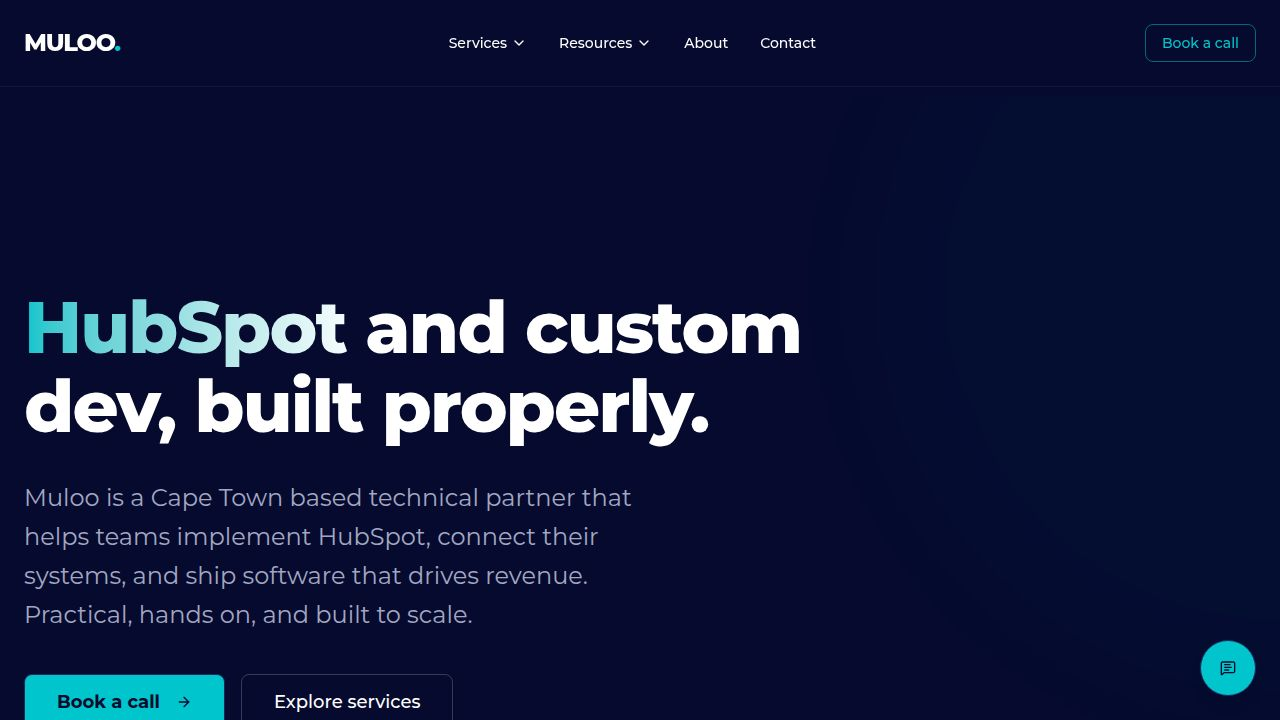
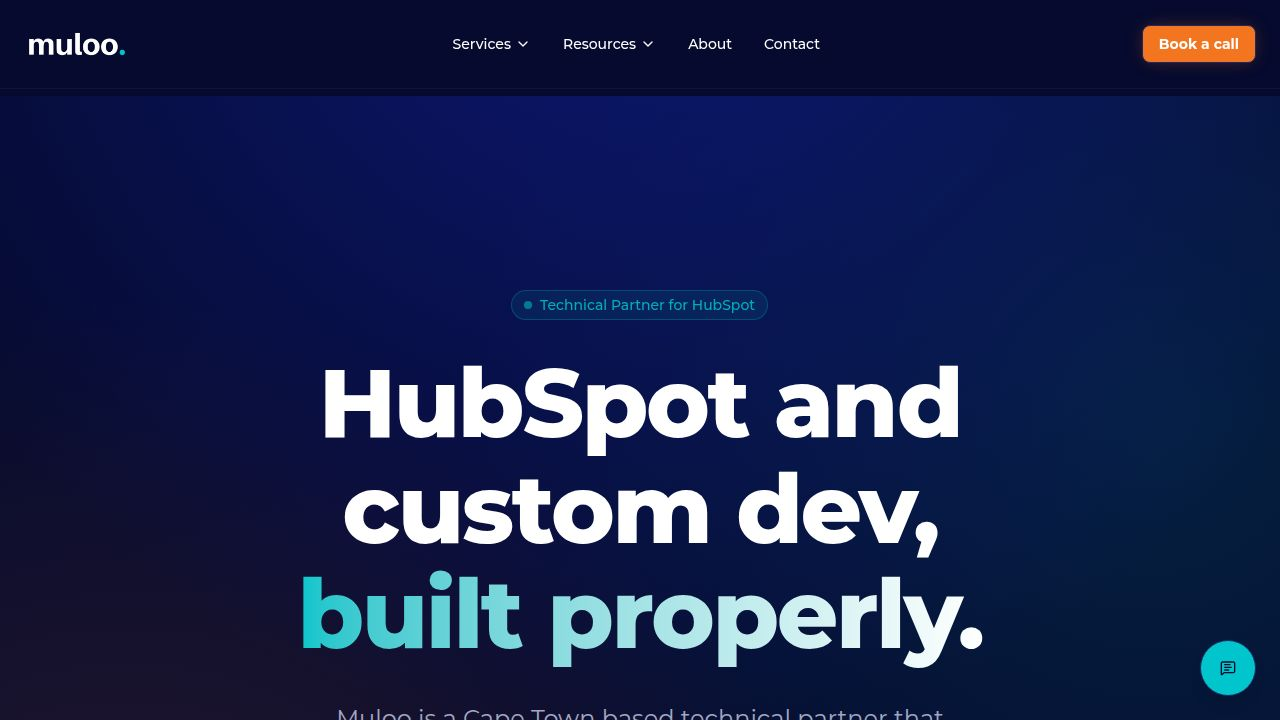
Update website with prominent orange branding and new imagery
Integrate Muloo Orange (#F47621) for emphasis, update gradient styles with vibrant orange hues, and incorporate new images on the Home and About pages. The "Book a call" button is now orange.

Replit-Commit-Author: Agent
Replit-Commit-Session-Id: 48c779ea-a9d9-4860-8ead-1b1bf76c8928
Replit-Commit-Checkpoint-Type: full_checkpoint
Replit-Commit-Event-Id: 6f55e679-4658-460c-8348-17905d78875e
Replit-Commit-Screenshot-Url: https://storage.googleapis.com/screenshot-production-us-central1/16b46b86-c891-4273-b756-b6b85d5cef0c/48c779ea-a9d9-4860-8ead-1b1bf76c8928/hsj3yDz
Replit-Helium-Checkpoint-Created: true

diff --git a/client/src/pages/home.tsx b/client/src/pages/home.tsx
@@ -3,15 +3,18 @@ import { FeatureGrid } from "@/components/sections/feature-grid";
 import { Section } from "@/components/ui/section";
 import { homeContent } from "@/lib/content";
 import { Button } from "@/components/ui/button";
-import { ArrowRight, ArrowUpRight, Code2, Database, LayoutTemplate, Share2, ShieldCheck, Zap } from "lucide-react";
+import { ArrowRight, Code2, Database, LayoutTemplate, Share2, ShieldCheck } from "lucide-react";
 import { Link } from "wouter";
 import { Badge } from "@/components/ui/badge";
-import { Card, CardContent, CardHeader, CardTitle } from "@/components/ui/card";
+import womanInCafe from "@assets/happy-african-american-young-woman-afro-hair-modern-cafe-small_1771487221441.jpg";
+import teamWork from "@assets/happiness-at-workplace-GettyImages-1129332568_1771487221441.jpg";
+import hubspotBadge from "@assets/gold-badge-color_1771487221441.png";
+import googleBadge from "@assets/google-partner-logo_1771487221441.png";
 
 export function Home() {
   return (
     <div className="flex flex-col">
-      {/* 1. Hero Section with Dark SaaS Style Gradient */}
+      {/* 1. Hero Section with Dark SaaS Style Gradient and Orange Glows */}
       <div className="relative pt-32 pb-20 md:pt-48 md:pb-32 overflow-hidden bg-hero-gradient">
         <div className="container mx-auto px-6 relative z-10 text-center">
           <div className="inline-flex items-center rounded-full border border-brand-teal/30 bg-brand-teal/10 px-3 py-1 text-sm font-medium text-brand-teal mb-8 animate-in fade-in slide-in-from-bottom-4 duration-1000">
@@ -30,7 +33,7 @@ export function Home() {
           
           <div className="flex flex-col sm:flex-row gap-4 justify-center items-center mb-12">
             <Link href="/contact">
-              <Button size="lg" className="bg-brand-teal text-brand-navy hover:bg-brand-teal/90 font-bold px-8 h-14 text-lg w-full sm:w-auto">
+              <Button size="lg" className="bg-brand-orange text-white hover:bg-brand-orange/90 font-bold px-8 h-14 text-lg w-full sm:w-auto shadow-[0_0_20px_-5px_hsl(24,90%,54%,0.4)]">
                 {homeContent.hero.primaryCta} <ArrowRight className="ml-2 h-5 w-5" />
               </Button>
             </Link>
@@ -46,9 +49,10 @@ export function Home() {
           </p>
         </div>
 
-        {/* Abstract Background Elements */}
+        {/* Abstract Background Elements with Orange */}
         <div className="absolute top-1/2 left-1/2 -translate-x-1/2 -translate-y-1/2 w-[1000px] h-[600px] bg-brand-navy rounded-full blur-3xl opacity-60 -z-10 mix-blend-multiply"></div>
         <div className="absolute top-0 right-0 w-[800px] h-[800px] bg-brand-teal/5 rounded-full blur-3xl opacity-30 translate-x-1/2 -translate-y-1/2 pointer-events-none -z-10"></div>
+        <div className="absolute bottom-0 left-0 w-[600px] h-[600px] bg-brand-orange/5 rounded-full blur-3xl opacity-20 -translate-x-1/4 translate-y-1/4 pointer-events-none -z-10"></div>
       </div>
 
       {/* 2. Three Pillars Section */}
@@ -58,13 +62,13 @@ export function Home() {
             <Link key={pillar.id} href={pillar.href}>
               <div className="group relative p-8 rounded-2xl border border-white/5 bg-card/40 hover:bg-card/60 transition-all duration-300 overflow-hidden h-full cursor-pointer">
                 {/* Hover Glow */}
-                <div className="absolute inset-0 bg-gradient-to-br from-brand-teal/5 to-transparent opacity-0 group-hover:opacity-100 transition-opacity duration-500 pointer-events-none" />
+                <div className="absolute inset-0 bg-gradient-to-br from-brand-orange/5 to-transparent opacity-0 group-hover:opacity-100 transition-opacity duration-500 pointer-events-none" />
                 
-                <Badge variant="outline" className="mb-6 border-brand-teal/20 text-brand-teal bg-brand-teal/5">
+                <Badge variant="outline" className="mb-6 border-brand-teal/20 text-brand-teal bg-brand-teal/5 group-hover:border-brand-orange/30 group-hover:text-brand-orange group-hover:bg-brand-orange/5 transition-colors">
                   {pillar.title}
                 </Badge>
                 
-                <h3 className="text-3xl font-bold mb-4 text-white group-hover:text-brand-teal transition-colors">
+                <h3 className="text-3xl font-bold mb-4 text-white group-hover:text-brand-orange transition-colors">
                   {pillar.title}
                 </h3>
                 
@@ -72,10 +76,10 @@ export function Home() {
                   {pillar.desc}
                 </p>
                 
-                <div className="flex items-center text-sm font-bold text-brand-teal mt-auto">
+                <div className="flex items-center text-sm font-bold text-brand-teal mt-auto group-hover:text-brand-orange transition-colors">
                   <span className="relative">
                     Explore
-                    <span className="absolute bottom-0 left-0 w-0 h-[1px] bg-brand-teal group-hover:w-full transition-all duration-300" />
+                    <span className="absolute bottom-0 left-0 w-0 h-[1px] bg-brand-orange group-hover:w-full transition-all duration-300" />
                   </span>
                   <ArrowRight className="ml-2 h-4 w-4 group-hover:translate-x-1 transition-transform" />
                 </div>
@@ -88,7 +92,7 @@ export function Home() {
       {/* 3. Capability Grid (Hyperboliq Inspired) */}
       <Section className="py-24 border-t border-white/5">
         <div className="text-center max-w-3xl mx-auto mb-16">
-          <Badge className="mb-4">Capabilities</Badge>
+          <Badge className="mb-4 bg-brand-teal/10 text-brand-teal border-brand-teal/20">Capabilities</Badge>
           <h2 className="text-4xl md:text-5xl font-bold mb-6">Technical depth.</h2>
           <p className="text-xl text-muted-foreground">
             We go deeper than standard agency implementations.
@@ -98,17 +102,17 @@ export function Home() {
         <div className="grid grid-cols-2 md:grid-cols-4 gap-px bg-white/10 border border-white/10 rounded-2xl overflow-hidden">
           {homeContent.capabilities.map((cap, i) => (
             <div key={i} className="bg-background/95 p-8 flex flex-col items-center justify-center text-center gap-4 hover:bg-white/5 transition-colors group">
-              {i % 4 === 0 && <Database className="h-8 w-8 text-brand-teal/50 group-hover:text-brand-teal transition-colors" />}
-              {i % 4 === 1 && <LayoutTemplate className="h-8 w-8 text-brand-teal/50 group-hover:text-brand-teal transition-colors" />}
-              {i % 4 === 2 && <Code2 className="h-8 w-8 text-brand-teal/50 group-hover:text-brand-teal transition-colors" />}
-              {i % 4 === 3 && <Share2 className="h-8 w-8 text-brand-teal/50 group-hover:text-brand-teal transition-colors" />}
+              {i % 4 === 0 && <Database className="h-8 w-8 text-brand-teal/50 group-hover:text-brand-orange transition-colors" />}
+              {i % 4 === 1 && <LayoutTemplate className="h-8 w-8 text-brand-teal/50 group-hover:text-brand-orange transition-colors" />}
+              {i % 4 === 2 && <Code2 className="h-8 w-8 text-brand-teal/50 group-hover:text-brand-orange transition-colors" />}
+              {i % 4 === 3 && <Share2 className="h-8 w-8 text-brand-teal/50 group-hover:text-brand-orange transition-colors" />}
               <span className="font-medium text-lg">{cap}</span>
             </div>
           ))}
         </div>
       </Section>
 
-      {/* 4. Built Properly Section (Engineering Tone) */}
+      {/* 4. Built Properly Section with Image Context */}
       <Section className="bg-section-soft-reverse py-32">
         <div className="grid md:grid-cols-2 gap-16 items-center">
           <div>
@@ -120,7 +124,7 @@ export function Home() {
             <div className="space-y-8">
               {homeContent.builtProperly.features.map((feature, i) => (
                 <div key={i} className="flex gap-4">
-                  <div className="h-12 w-12 rounded-lg bg-white/5 border border-white/10 flex items-center justify-center shrink-0 text-brand-teal">
+                  <div className="h-12 w-12 rounded-lg bg-brand-orange/10 border border-brand-orange/20 flex items-center justify-center shrink-0 text-brand-orange">
                      {i === 0 ? <Code2 className="h-6 w-6" /> : i === 1 ? <Share2 className="h-6 w-6" /> : <ShieldCheck className="h-6 w-6" />}
                   </div>
                   <div>
@@ -133,42 +137,43 @@ export function Home() {
           </div>
           
           <div className="relative">
-             {/* Code Block Visual */}
-             <div className="bg-[#0d1117] rounded-xl border border-white/10 shadow-2xl overflow-hidden transform rotate-1 hover:rotate-0 transition-transform duration-500">
-                <div className="flex items-center gap-2 px-4 py-3 border-b border-white/10 bg-white/5">
-                   <div className="h-3 w-3 rounded-full bg-red-500/50" />
-                   <div className="h-3 w-3 rounded-full bg-yellow-500/50" />
-                   <div className="h-3 w-3 rounded-full bg-green-500/50" />
-                   <div className="ml-auto text-xs text-muted-foreground font-mono">config.ts</div>
-                </div>
-                <div className="p-6 font-mono text-sm leading-loose text-blue-100/80 overflow-x-auto">
-                   <div className="text-gray-500">// Muloo Implementation Standard</div>
-                   <div><span className="text-purple-400">export</span> <span className="text-blue-400">const</span> <span className="text-yellow-200">hubspotConfig</span> = {'{'}</div>
-                   <div className="pl-4">objects: [<span className="text-green-300">'deals'</span>, <span className="text-green-300">'tickets'</span>, <span className="text-green-300">'custom_objects'</span>],</div>
-                   <div className="pl-4">sync: {'{'}</div>
-                   <div className="pl-8">mode: <span className="text-green-300">'bidirectional'</span>,</div>
-                   <div className="pl-8">frequency: <span className="text-blue-400">5000</span>,</div>
-                   <div className="pl-8">retryStrategy: <span className="text-purple-400">true</span></div>
-                   <div className="pl-4">{'}'},</div>
-                   <div className="pl-4">security: <span className="text-green-300">'strict'</span></div>
-                   <div>{'}'};</div>
+             {/* Using the "Woman in Cafe" image here to represent the human/approachable side of tech */}
+             <div className="relative z-10 rounded-2xl overflow-hidden border border-white/10 shadow-2xl transform rotate-2 hover:rotate-0 transition-transform duration-500 group">
+                <img 
+                  src={womanInCafe} 
+                  alt="Muloo team member" 
+                  className="w-full h-auto object-cover opacity-90 group-hover:opacity-100 transition-opacity"
+                />
+                <div className="absolute inset-0 bg-gradient-to-t from-brand-navy/90 to-transparent flex flex-col justify-end p-8">
+                   <div className="font-mono text-brand-teal text-sm mb-2">Human-Centric Tech</div>
+                   <div className="text-white font-bold text-lg">We build for people, not just machines.</div>
                 </div>
              </div>
              
              {/* Decorator */}
-             <div className="absolute -bottom-10 -right-10 h-64 w-64 bg-brand-teal/20 blur-3xl rounded-full -z-10" />
+             <div className="absolute -bottom-10 -right-10 h-64 w-64 bg-brand-orange/20 blur-3xl rounded-full -z-10" />
           </div>
         </div>
       </Section>
 
-      {/* 5. Partners Section (Strategic Collaborators) */}
+      {/* 5. Partners Section (Strategic Collaborators) + Badges */}
       <Section className="py-24 border-t border-white/5 bg-brand-navy">
         <div className="container mx-auto px-6 text-center">
+            <h2 className="text-2xl font-bold mb-8 opacity-80">Trusted by</h2>
+            
+            {/* Certification Badges Row */}
+            <div className="flex justify-center gap-12 mb-16 items-center flex-wrap">
+               <img src={hubspotBadge} alt="HubSpot Gold Partner" className="h-24 md:h-32 w-auto drop-shadow-[0_0_15px_rgba(244,118,33,0.3)]" />
+               <img src={googleBadge} alt="Google Partner" className="h-12 md:h-16 w-auto opacity-80 hover:opacity-100 transition-opacity" />
+            </div>
+
+            <div className="w-full h-px bg-white/5 max-w-2xl mx-auto mb-16" />
+
             <h2 className="text-2xl font-bold mb-4 opacity-80">{homeContent.partners.headline}</h2>
             <p className="text-muted-foreground mb-12 max-w-2xl mx-auto">{homeContent.partners.body}</p>
             <div className="flex justify-center gap-12 md:gap-24 flex-wrap items-center opacity-60 grayscale hover:grayscale-0 transition-all duration-500">
               {homeContent.partners.list.map(partner => (
-                <div key={partner} className="text-3xl md:text-4xl font-extrabold tracking-tighter text-white hover:text-brand-teal cursor-default">
+                <div key={partner} className="text-3xl md:text-4xl font-extrabold tracking-tighter text-white hover:text-brand-orange cursor-default">
                   {partner}
                 </div>
               ))}
@@ -177,14 +182,17 @@ export function Home() {
       </Section>
       
       {/* CTA Footer */}
-      <Section className="py-32 text-center bg-gradient-to-b from-brand-navy to-black/40 border-t border-white/5">
-        <Badge variant="outline" className="mb-6 border-brand-teal/20 text-brand-teal">Ready to build?</Badge>
-        <h2 className="text-4xl md:text-5xl font-bold mb-8">Let's scope your project.</h2>
-        <Link href="/contact">
-          <Button size="lg" className="bg-brand-teal text-brand-navy hover:bg-brand-teal/90 font-bold px-12 h-16 text-xl shadow-[0_0_30px_-5px_hsl(182,100%,40%,0.3)] hover:shadow-[0_0_40px_-5px_hsl(182,100%,40%,0.4)] transition-all">
-            Book a discovery call <ArrowRight className="ml-2" />
-          </Button>
-        </Link>
+      <Section className="py-32 text-center bg-gradient-to-b from-brand-navy to-black/40 border-t border-white/5 relative overflow-hidden">
+        <div className="absolute inset-0 bg-brand-orange/5 mix-blend-overlay pointer-events-none" />
+        <div className="relative z-10">
+          <Badge variant="outline" className="mb-6 border-brand-orange/20 text-brand-orange bg-brand-orange/5">Ready to build?</Badge>
+          <h2 className="text-4xl md:text-5xl font-bold mb-8">Let's scope your project.</h2>
+          <Link href="/contact">
+            <Button size="lg" className="bg-brand-orange text-white hover:bg-brand-orange/90 font-bold px-12 h-16 text-xl shadow-[0_0_30px_-5px_hsl(24,90%,54%,0.4)] hover:shadow-[0_0_40px_-5px_hsl(24,90%,54%,0.6)] transition-all">
+              Book a discovery call <ArrowRight className="ml-2" />
+            </Button>
+          </Link>
+        </div>
       </Section>
     </div>
   );

diff --git a/client/src/pages/about.tsx b/client/src/pages/about.tsx
@@ -7,6 +7,7 @@ import { Avatar, AvatarFallback, AvatarImage } from "@/components/ui/avatar";
 import jarrudImg from "@assets/jarrud_profile_picture_1771486552112.png";
 import morneImg from "@assets/Component_25_–_1_1771486552111.png";
 import paulImg from "@assets/Component_77_–_1_1771486552111.png";
+import cultureImg from "@assets/happiness-at-workplace-GettyImages-1129332568_1771487221441.jpg";
 
 // Helper to get image by name since content is static
 const getImage = (imageName: string) => {
@@ -28,14 +29,28 @@ export function About() {
         </div>
       </Section>
 
+      {/* Culture Image Section */}
+      <div className="w-full h-96 relative overflow-hidden">
+         <img src={cultureImg} alt="Muloo team culture" className="w-full h-full object-cover opacity-60" />
+         <div className="absolute inset-0 bg-gradient-to-t from-brand-navy via-brand-navy/50 to-transparent" />
+         <div className="absolute bottom-0 left-0 w-full p-8 md:p-16">
+            <div className="container mx-auto">
+               <div className="inline-block bg-brand-orange text-white px-4 py-2 font-bold rounded-lg mb-4 shadow-lg">Our Culture</div>
+               <h2 className="text-3xl md:text-4xl font-bold text-white max-w-2xl">
+                  Remote-first, but connected by a shared obsession with quality.
+               </h2>
+            </div>
+         </div>
+      </div>
+
       <Section className="py-24 bg-section-soft">
          <div className="grid md:grid-cols-2 gap-16">
             <div>
                <h2 className="text-3xl font-bold mb-6">Our Philosophy</h2>
                <div className="space-y-8">
                   {aboutContent.philosophy.map((item, i) => (
-                     <div key={i} className="pl-6 border-l-2 border-white/10 hover:border-brand-orange transition-colors">
-                        <h3 className="text-xl font-bold mb-2 hover-text-orange transition-colors">{item.title}</h3>
+                     <div key={i} className="pl-6 border-l-2 border-white/10 hover:border-brand-orange transition-colors group">
+                        <h3 className="text-xl font-bold mb-2 group-hover:text-brand-orange transition-colors">{item.title}</h3>
                         <p className="text-muted-foreground">{item.desc}</p>
                      </div>
                   ))}
@@ -64,11 +79,13 @@ export function About() {
          <div className="grid md:grid-cols-3 gap-8 max-w-6xl mx-auto">
             {aboutContent.team && aboutContent.team.map((member, i) => (
                 <div key={i} className="bg-card p-8 rounded-xl border border-white/10 flex flex-col items-center text-center gap-6 hover:border-brand-orange/50 transition-colors group">
-                   <div className="h-32 w-32 rounded-full border-2 border-brand-teal/20 p-1 group-hover:border-brand-orange/50 transition-colors">
+                   <div className="h-32 w-32 rounded-full border-2 border-brand-teal/20 p-1 group-hover:border-brand-orange/50 transition-colors relative">
                        <Avatar className="h-full w-full">
                            <AvatarImage src={getImage(member.image)} alt={member.name} className="object-cover" />
                            <AvatarFallback>{member.name.substring(0, 2)}</AvatarFallback>
                        </Avatar>
+                       {/* Role Indicator Dot */}
+                       <div className="absolute bottom-2 right-2 w-4 h-4 bg-brand-orange rounded-full border-2 border-card" />
                    </div>
                    <div>
                       <h3 className="text-xl font-bold group-hover:text-brand-orange transition-colors">{member.name}</h3>
@@ -76,7 +93,7 @@ export function About() {
                       <p className="text-sm text-muted-foreground mb-6">{member.bio}</p>
                       
                       <a href={member.linkedin} target="_blank" rel="noopener noreferrer">
-                        <Button variant="ghost" size="sm" className="text-muted-foreground hover:text-white">
+                        <Button variant="ghost" size="sm" className="text-muted-foreground hover:text-white hover:bg-white/5">
                             <Linkedin className="h-4 w-4 mr-2" /> LinkedIn
                         </Button>
                       </a>
@@ -89,7 +106,7 @@ export function About() {
       <Section className="py-32 text-center bg-white/5 border-t border-white/5">
         <h2 className="text-3xl md:text-5xl font-bold mb-8">Work with us</h2>
         <Link href="/contact">
-          <Button size="lg" className="bg-brand-teal text-brand-navy hover:bg-brand-teal/90 font-bold px-10 h-14">
+          <Button size="lg" className="bg-brand-orange text-white hover:bg-brand-orange/90 font-bold px-10 h-14 shadow-lg shadow-brand-orange/20">
             Get in touch <ArrowRight className="ml-2" />
           </Button>
         </Link>

diff --git a/client/src/index.css b/client/src/index.css
@@ -100,20 +100,26 @@
 }
 
 @layer utilities {
-  /* 1. Hero Gradient (Dark SaaS Style) - Added Orange hint */
+  /* 1. Hero Gradient - Enhanced with Orange/Purple vibrancy like the Dribbble shot */
   .bg-hero-gradient {
-    background: radial-gradient(circle at 50% 0%, hsl(233 81% 15%), hsl(233 81% 10%) 60%),
-                radial-gradient(circle at 80% 20%, hsl(182 100% 40% / 0.08), transparent 40%),
-                radial-gradient(circle at 20% 80%, hsl(24 90% 54% / 0.05), transparent 40%);
+    background: 
+      /* Top center deep glow */
+      radial-gradient(circle at 50% -20%, hsl(233 81% 25%) 0%, transparent 60%),
+      /* Right side teal glow */
+      radial-gradient(circle at 90% 30%, hsl(182 100% 40% / 0.12) 0%, transparent 50%),
+      /* Bottom left vibrant orange/purple intersection */
+      radial-gradient(circle at 10% 90%, hsl(24 90% 54% / 0.15) 0%, transparent 50%),
+      /* Base background */
+      hsl(233 81% 10%);
   }
 
-  /* 2. Section Soft Gradient (Alternating Sections) */
+  /* 2. Section Soft Gradient */
   .bg-section-soft {
-    background: linear-gradient(180deg, hsl(233 81% 10%) 0%, hsl(233 81% 12%) 100%);
+    background: linear-gradient(180deg, hsl(233 81% 10%) 0%, hsl(233 81% 13%) 100%);
   }
   
   .bg-section-soft-reverse {
-     background: linear-gradient(0deg, hsl(233 81% 10%) 0%, hsl(233 81% 12%) 100%);
+     background: linear-gradient(0deg, hsl(233 81% 10%) 0%, hsl(233 81% 13%) 100%);
   }
 
   /* 3. Teal Glow Accent */
@@ -124,21 +130,21 @@
     content: "";
     position: absolute;
     inset: -20px;
-    background: radial-gradient(circle, hsl(182 100% 40% / 0.15) 0%, transparent 70%);
+    background: radial-gradient(closest-side, hsl(182 100% 40% / 0.2) 0%, transparent 100%);
     z-index: -1;
     pointer-events: none;
     border-radius: inherit;
   }
   
-  /* Orange Glow Accent for Consulting/Team */
+  /* Orange Glow Accent */
   .orange-glow {
     position: relative;
   }
   .orange-glow::before {
     content: "";
     position: absolute;
-    inset: -20px;
-    background: radial-gradient(circle, hsl(24 90% 54% / 0.15) 0%, transparent 70%);
+    inset: -40px;
+    background: radial-gradient(closest-side, hsl(24 90% 54% / 0.15) 0%, transparent 100%);
     z-index: -1;
     pointer-events: none;
     border-radius: inherit;
@@ -161,12 +167,10 @@
     @apply bg-white/5 backdrop-blur-md border border-white/10;
   }
   
-  /* Updated Hover Effect to include Orange */
   .glass-panel-hover {
     @apply transition-all duration-300 hover:bg-white/10 hover:border-brand-orange/30;
   }
   
-  /* Hover Text Orange Transition */
   .hover-text-orange {
     @apply transition-colors duration-300 hover:text-brand-orange;
   }

diff --git a/client/src/components/layout/Header.tsx b/client/src/components/layout/Header.tsx
@@ -73,7 +73,8 @@ export function Header() {
 
         <div className="hidden md:flex items-center gap-4">
           <Link href="/contact">
-            <Button variant="outline" className="border-brand-teal/50 text-brand-teal hover:bg-brand-teal hover:text-background cursor-pointer hover:border-brand-teal">
+            {/* Updated to Orange as requested */}
+            <Button className="bg-brand-orange text-white hover:bg-brand-orange/90 font-bold shadow-[0_0_20px_-5px_hsl(24,90%,54%,0.4)] transition-all hover:shadow-[0_0_25px_-5px_hsl(24,90%,54%,0.6)]">
               Book a call
             </Button>
           </Link>
@@ -108,7 +109,7 @@ export function Header() {
                 </div>
               ))}
               <Link href="/contact" onClick={() => setIsMobileMenuOpen(false)}>
-                <Button className="w-full bg-brand-teal text-background font-bold hover:bg-brand-teal/90 mt-4">
+                <Button className="w-full bg-brand-orange text-white font-bold hover:bg-brand-orange/90 mt-4">
                   Book a call
                 </Button>
               </Link>
